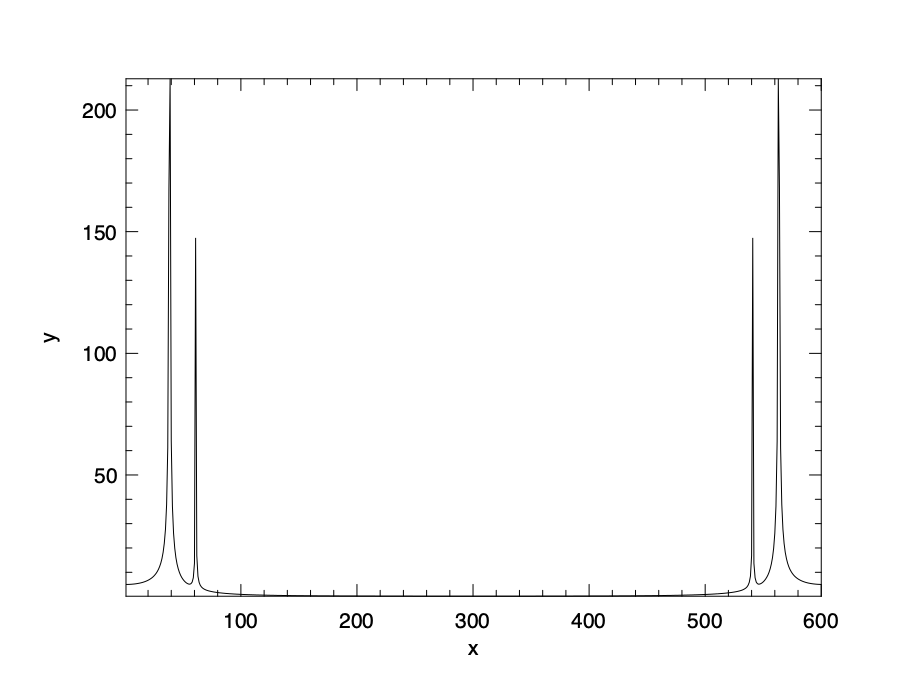
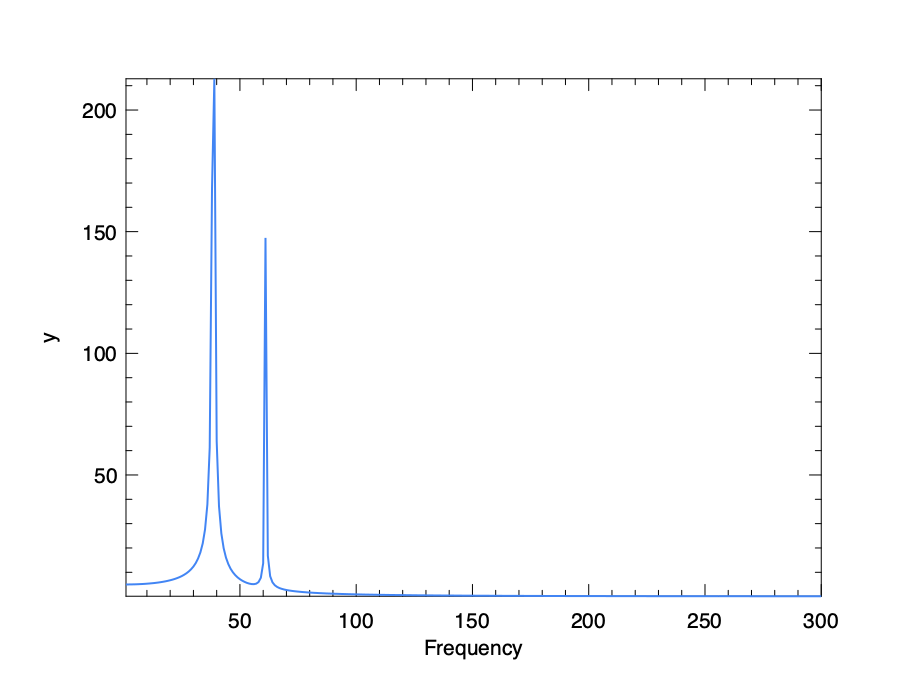
editing...

Changed region(s): [[0.2489, 0.1556, 0.9022, 0.9956], [0.1556, 0.1244, 0.2489, 0.8711]]

diff --git a/docs/signal.html b/docs/signal.html
@@ -25,12 +25,12 @@
 <p><span id="eq:signal:fft01"><span class="math display">\[ Y_k = \sum_{even j}\omega^{jk}y_j + \sum_{odd j}\omega^{jk}y_j\qquad(3)\]</span></span> <span class="math display">\[ = \sum_{j=0}^{n/2-1}\omega^{2jk}y_{2j} + \omega^k\sum_{j=0}^{n/2-1}\omega^{2jk}y_{2j+1}.\]</span></p>
 <p>The key to this step is the fact that <span class="math inline">\(\omega_{2n}^2 = \omega_n\)</span>. According to eq.&nbsp;3, one FFT can be reduced into two FFTs, each on only half of the original length, and then the second half is multiplied by a factor <span class="math inline">\(\omega^{k}\)</span> and added to the first half. The half signal can further be halved, so on and so forth. Therefore the computation can be reduced to a logarithm level in a recursive process. At the end of this recursion is the fact that a FFT on input that contains only one number returns just the number itself.</p>
 <p>To introduce Fourier Transform in detailed math and analysis of its properties is beyond the scope of this book, we encourage the readers to refer to other classic textbook on this topic <span data-cites="phillips2003signals" class="citation">(Phillips, Parr, and Riskin 2003)</span>. In this chapter, we focus on introducing how to use FFT in Owl and its applications with Owl code. Hopefully these materials are enough to interest you to investigate more.</p>
-<p>The implementation of the FFT module in Owl interfaces to the <a href="https://www.netlib.org/fftpack/">FFTPack</a> C implementation. Owl provides these basic FFT functions, listed in Tabel tbl.&nbsp;1</p>
+<p>The implementation of the FFT module in Owl interfaces to the <a href="https://www.netlib.org/fftpack/">FFTPack</a> C implementation. The core functions in a FFT module is the fft function and its reverse, corresponding to the two equations in eq.&nbsp;3. Owl provides these basic FFT functions, listed in Tabel tbl.&nbsp;1. The parameter <code>otyp</code> is used to specify the output type. It must be the consistent precision with input <code>x</code>. You can skip this parameter by using a sub-module with specific precision such as <code>Owl.Fft.S</code> or <code>Owl.Fft.D</code>. The <code>axis</code> parameter is the highest dimension if not specified. The parameter <code>n</code> specifies the size of output.</p>
 <div id="tbl:signal:fftfun">
 <table>
 <caption>Table 1: FFT functions in Owl</caption>
 <colgroup>
-<col style="width: 29%">
+<col style="width: 30%">
 <col style="width: 70%">
 </colgroup>
 <thead>
@@ -61,9 +61,9 @@
 </div>
 <section class="level3" id="examples">
 <h3>Examples</h3>
-<p>We then show how to use these functions with some simple example. More complex and interesting will follow in the next section.</p>
+<p>We then show how to use these functions with some simple examples. More complex and interesting ones will follow in the next section.</p>
 <p><strong>1-D Discrete Fourier transforms</strong></p>
-<p>Let start with the most basic <code>fft</code> and it reverse transform function <code>ifft</code>. First, we have a complex 1-D ndarray that contains 6 elements.</p>
+<p>Let start with the most basic <code>fft</code> and it reverse transform function <code>ifft</code>. First, we create a complex 1-D ndarray that contains 6 elements as input to the <code>fft</code> function.</p>
 <div class="highlight">
 <pre data-filter-output=">" data-prompt="#" class="command-line"><code class="language-ocaml">let a = [|1.;2.;1.;-1.;1.5;1.0|];;
 &gt;val a : float array = [|1.; 2.; 1.; -1.; 1.5; 1.|]
@@ -82,7 +82,7 @@ let b = Arr.of_array a [|6|] |&gt; Dense.Ndarray.Generic.cast_d2z;;
 &gt;R (5.5, 0i) (2.25, -0.433013i) (-2.75, -1.29904i) (1.5, 1.94289E-16i) (-2.75, 1.29904i) (2.25, 0.433013i)
 </code></pre>
 </div>
-<p>In the result returned by <code>fft</code>, the first half contain the positive-frequency terms, and the second half contains the negative-frequency terms, in order of decreasingly negative frequency. Typically, only the FFT corresponding to positive frequencies is plotted. (TODO: explain)</p>
+<p>The function <code>fft</code> takes a complex ndarray as input, and also returns a complex ndarray. In the result returned, the first half contains the positive-frequency terms, and the second half contains the negative-frequency terms, in order of decreasingly negative frequency. Typically, only the FFT corresponding to positive frequencies is plotted, so as to remove redundant frequencies, such as the <code>2.25</code> and <code>-2.75</code> here. (TODO: explain what are pos/neg frequencies.)</p>
 <div class="highlight">
 <pre data-filter-output=">" data-prompt="#" class="command-line"><code class="language-ocaml">let d = Owl_fft.D.ifft c;;
 &gt;val d : (Complex.t, complex64_elt) Owl_dense_ndarray_generic.t =
@@ -91,8 +91,8 @@ let b = Arr.of_array a [|6|] |&gt; Dense.Ndarray.Generic.cast_d2z;;
 &gt;R (1, 1.38778E-17i) (2, 1.15186E-15i) (1, -8.65641E-17i) (-1, -1.52188E-15i) (1.5, 1.69831E-16i) (1, 2.72882E-16i)
 </code></pre>
 </div>
-<p>TODO: explain <code>ifft</code>.</p>
-<p>The next example plots the FFT of the sum of two sine functions, showing the power of FFT to separate signals of different frequencies.</p>
+<p>The function <code>ifft</code> takes the frequency domain result <code>c</code> produced by <code>fft</code> and reconstruct the original time domain signal. Since we do not change the frequencies, the inverse FFT should produce quite similar result as the original input, as shown in this example.</p>
+<p>Perhaps only manipulating arrays still does not make very impressive example. The next example plots the FFT of the sum of two sine functions, showing the power of FFT to separate signals of different frequencies.</p>
 <div class="highlight">
 <pre data-filter-output=">" data-prompt="#" class="command-line"><code class="language-ocaml">module G = Dense.Ndarray.Generic;;
 &gt;module G = Owl.Dense.Ndarray.Generic
@@ -123,7 +123,7 @@ let x = Arr.linspace 0. (n *. t) (int_of_float n);;
 &gt;R  0 0.294317 0.475851 0.47504 0.292193 ... -0.292193 -0.47504 -0.475851 -0.294317 -2.15587E-14
 </code></pre>
 </div>
-<p>Here we create two signals: <span class="math inline">\(y_1(x)=\sin(100\pi~x)\)</span>, <span class="math inline">\(y_2(x) = \frac{1}{2}\sin(160\pi~x)\)</span>. We then mix them together.</p>
+<p>Here we create two sine signals of different frequencies: <span class="math inline">\(y_1(x)=\sin(100\pi~x)\)</span>, <span class="math inline">\(y_2(x) = \frac{1}{2}\sin(160\pi~x)\)</span>. We then mix them together.</p>
 <div class="highlight">
 <pre data-filter-output=">" data-prompt="#" class="command-line"><code class="language-ocaml">let y = Arr.(y1 + y2) |&gt; G.cast_d2z;;
 &gt;val y : (Complex.t, complex64_elt) G.t =
@@ -132,6 +132,7 @@ let x = Arr.linspace 0. (n *. t) (int_of_float n);;
 &gt;R (0, 0i) (0.677606, 0i) (1.18388, 0i) (1.39967, 0i) (1.29219, 0i) ... (0.707804, 0i) (0.449591, 0i) (0.232182, 0i) (0.0889723, 0i) (-8.82117E-15, 0i)
 </code></pre>
 </div>
+<p>Next, we apply FFT on the mixed signal:</p>
 <div class="highlight">
 <pre data-filter-output=">" data-prompt="#" class="command-line"><code class="language-ocaml">let yf = Owl_fft.D.fft y;;
 &gt;val yf : (Complex.t, complex64_elt) Owl_dense_ndarray_generic.t =
@@ -140,7 +141,7 @@ let x = Arr.linspace 0. (n *. t) (int_of_float n);;
 &gt;R (5.01874, 0i) (5.02225, 0.0182513i) (5.03281, 0.0366004i) (5.05051, 0.0551465i) (5.0755, 0.073992i) ... (5.108, -0.0932438i) (5.0755, -0.073992i) (5.05051, -0.0551465i) (5.03281, -0.0366004i) (5.02225, -0.0182513i)
 </code></pre>
 </div>
-<p>TODO: explain the meaning of result</p>
+<p>In the results, each tuple can be seen as a frequency vector in the complex space. We can plot the length of these vectors. As we have said, we use only the first half, or the positive frequencies, of array <code>yf</code>.</p>
 <div class="highlight">
 <pre data-filter-output=">" data-prompt="#" class="command-line"><code class="language-ocaml">let z = Dense.Ndarray.Z.(abs yf |&gt; re);;
 &gt;val z : Dense.Ndarray.Z.cast_arr =
@@ -149,12 +150,13 @@ let x = Arr.linspace 0. (n *. t) (int_of_float n);;
 &gt;R 5.01874 5.02228 5.03294 5.05081 5.07604 ... 5.10886 5.07604 5.05081 5.03294 5.02228
 </code></pre>
 </div>
-<p>TODO: what we have plotted</p>
 <div class="highlight">
 <pre data-filter-output=">" data-prompt="#" class="command-line"><code class="language-ocaml">let h = Plot.create "plot_001.png" in
 let xa = Arr.linspace 1. 600. 600 in
-Plot.plot ~h xa z;
-Plot.output h
+Plot.plot ~h ~spec:[ RGB (66,133,244); LineWidth 2.] xa z;
+Plot.set_xrange h 1. 300.;
+Plot.set_xlabel h "Frequency";
+Plot.output h;;
 ;;
 &gt;- : unit = ()
 </code></pre>
@@ -162,8 +164,7 @@ Plot.output h
 <figure>
 <img alt="" style="width:70.0%" class="align-center" title="plot_001" src="images/signal/plot_001.png"><figcaption>Using FFT to separate two sine signals from their mixed signal</figcaption>
 </figure>
-<p>TODO: explain why the other half.</p>
-<p>Next let’s see <code>rfft</code> and <code>irfft</code>. Function <code>rfft</code> calculates the FFT of a real signal input and generates the complex number FFT coefficients for half of the frequency domain range. The negative part is implied by the Hermitian symmetry of the FFT. Similarly, <code>irfft</code> performs the reverse step of <code>rfft</code>. First, let’s make the input even number.</p>
+<p>Next let’s see <code>rfft</code> and <code>irfft</code>. Function <code>rfft</code> calculates the FFT of a real signal input and generates the complex number FFT coefficients for half of the frequency domain range. The negative part is implied by the Hermitian symmetry of the FFT. Similarly, <code>irfft</code> performs the reverse step of <code>rfft</code>. They are different to <code>fft</code> and <code>ifft</code> only in the data type, and may make the code cleaner sometimes, as shown in the example below.</p>
 <div class="highlight">
 <pre data-filter-output=">" data-prompt="#" class="command-line"><code class="language-ocaml">let a = [|1.; 2.; 1.; -1.; 1.5; 1.0|];;
 &gt;val a : float array = [|1.; 2.; 1.; -1.; 1.5; 1.|]
@@ -190,8 +191,8 @@ let b = Arr.of_array a [|6|];;
 </code></pre>
 </div>
 <p><strong>N-D Discrete Fourier transforms</strong></p>
-<p>( TODO: This is not the real N-D FFT. Verify it with SciPy examples. IMPLEMENTATION required. TODO: explain briefly how 2D FFT can be built with 1D. Reference: Data-Driven Book, Chap2.6. )</p>
 <p>The owl FFT functions also applies to multi-dimensional arrays, such as matrix. Example: the fft matrix.</p>
+<p>( TODO: This is not the real N-D FFT. IMPLEMENTATION required. TODO: explain briefly how 2D FFT can be built with 1D. Reference: Data-Driven Book, Chap2.6. )</p>
 <div class="highlight">
 <pre data-filter-output=">" data-prompt="#" class="command-line"><code class="language-ocaml">let a = Dense.Matrix.Z.eye 5;;
 &gt;val a : Dense.Matrix.Z.mat =

diff --git a/book/signal/README.md b/book/signal/README.md
@@ -68,26 +68,31 @@ To introduce Fourier Transform in detailed math and analysis of its properties i
 In this chapter, we focus on introducing how to use FFT in Owl and its applications with Owl code. Hopefully these materials are enough to interest you to investigate more.
 
 The implementation of the FFT module in Owl interfaces to the [FFTPack](https://www.netlib.org/fftpack/) C implementation.
-Owl provides these basic FFT functions, listed in Tabel [@tbl:signal:fftfun]
+The core functions in a FFT module is the fft function and its reverse, corresponding to the two equations in [@eq:signal:fft01].
+Owl provides these basic FFT functions, listed in Tabel [@tbl:signal:fftfun].
+The parameter `otyp` is used to specify the output type. It must be the consistent
+precision with input `x`. You can skip this parameter by using a sub-module
+with specific precision such as ``Owl.Fft.S`` or ``Owl.Fft.D``.
+The `axis` parameter  is the highest dimension if not specified.
+The parameter `n` specifies the size of output.
 
 | Functions | Description
-| --------- |:---------------------|
+| --------- |:--------------------|
 | `fft ~axis x` | Compute the one-dimensional discrete Fourier Transform |
 | `ifft ~axis x` | Compute the one-dimensional inverse discrete Fourier Transform |
 | `rfft ~axis otyp x` | Compute the one-dimensional discrete Fourier Transform for real input |
 | `irfft ~axis ~n otyp x` | Compute the one-dimensional inverse discrete Fourier Transform for real input |
 : FFT functions in Owl {#tbl:signal:fftfun}
 
-
 ### Examples
 
-We then show how to use these functions with some simple example.
-More complex and interesting will follow in the next section.
+We then show how to use these functions with some simple examples.
+More complex and interesting ones will follow in the next section.
 
 **1-D Discrete Fourier transforms**
 
 Let start with the most basic `fft` and it reverse transform function `ifft`.
-First, we have a complex 1-D ndarray that contains 6 elements.
+First, we create a complex 1-D ndarray that contains 6 elements as input to the `fft` function.
 
 ```ocaml env=fft_env01
 # let a = [|1.;2.;1.;-1.;1.5;1.0|]
@@ -109,9 +114,10 @@ R (5.5, 0i) (2.25, -0.433013i) (-2.75, -1.29904i) (1.5, 1.94289E-16i) (-2.75, 1.
 
 ```
 
-In the result returned by `fft`, the first half contain the positive-frequency terms, and the second half contains the negative-frequency terms, in order of decreasingly negative frequency.
-Typically, only the FFT corresponding to positive frequencies is plotted.
-(TODO: explain)
+The function `fft` takes a complex ndarray as input, and also returns a complex ndarray.
+In the result returned, the first half contains the positive-frequency terms, and the second half contains the negative-frequency terms, in order of decreasingly negative frequency.
+Typically, only the FFT corresponding to positive frequencies is plotted, so as to remove redundant frequencies, such as the `2.25` and `-2.75` here.
+(TODO: explain what are pos/neg frequencies.)
 
 ```ocaml env=fft_env01
 # let d = Owl_fft.D.ifft c
@@ -121,8 +127,11 @@ val d : (Complex.t, complex64_elt) Owl_dense_ndarray_generic.t =
 R (1, 1.38778E-17i) (2, 1.15186E-15i) (1, -8.65641E-17i) (-1, -1.52188E-15i) (1.5, 1.69831E-16i) (1, 2.72882E-16i)
 
 ```
-TODO: explain `ifft`.
 
+The function `ifft` takes the frequency domain result `c` produced by `fft` and reconstruct the original time domain signal.
+Since we do not change the frequencies, the inverse FFT should produce quite similar result as the original input, as shown in this example.
+
+Perhaps only manipulating arrays still does not make very impressive example.
 The next example plots the FFT of the sum of two sine functions, showing the power of FFT to separate signals of different frequencies.
 
 ```ocaml env=fft_env02
@@ -159,7 +168,7 @@ R  0 0.294317 0.475851 0.47504 0.292193 ... -0.292193 -0.47504 -0.475851 -0.2943
 
 ```
 
-Here we create two signals: $y_1(x)=\sin(100\pi~x)$, $y_2(x) = \frac{1}{2}\sin(160\pi~x)$. We then mix them together.
+Here we create two sine signals of different frequencies: $y_1(x)=\sin(100\pi~x)$, $y_2(x) = \frac{1}{2}\sin(160\pi~x)$. We then mix them together.
 
 ```ocaml env=fft_env02
 # let y = Arr.(y1 + y2) |> G.cast_d2z
@@ -170,6 +179,8 @@ R (0, 0i) (0.677606, 0i) (1.18388, 0i) (1.39967, 0i) (1.29219, 0i) ... (0.707804
 
 ```
 
+Next, we apply FFT on the mixed signal:
+
 ```ocaml env=fft_env02
 # let yf = Owl_fft.D.fft y
 val yf : (Complex.t, complex64_elt) Owl_dense_ndarray_generic.t =
@@ -179,7 +190,9 @@ R (5.01874, 0i) (5.02225, 0.0182513i) (5.03281, 0.0366004i) (5.05051, 0.0551465i
 
 ```
 
-TODO: explain the meaning of result
+In the results, each tuple can be seen as a frequency vector in the complex space. 
+We can plot the length of these vectors. 
+As we have said, we use only the first half, or the positive frequencies, of array `yf`. 
 
 ```ocaml env=fft_env02
 # let z = Dense.Ndarray.Z.(abs yf |> re)
@@ -189,25 +202,24 @@ val z : Dense.Ndarray.Z.cast_arr =
 R 5.01874 5.02228 5.03294 5.05081 5.07604 ... 5.10886 5.07604 5.05081 5.03294 5.02228
 
 ```
-TODO: what we have plotted
 
 ```ocaml env=fft_env02
 # let h = Plot.create "plot_001.png" in
   let xa = Arr.linspace 1. 600. 600 in
-  Plot.plot ~h xa z;
-  Plot.output h
+  Plot.plot ~h ~spec:[ RGB (66,133,244); LineWidth 2.] xa z;
+  Plot.set_xrange h 1. 300.;
+  Plot.set_xlabel h "Frequency";
+  Plot.output h;;
 - : unit = ()
 ```
 
 ![Using FFT to separate two sine signals from their mixed signal](images/signal/plot_001.png "plot_001"){.align-center width=70%}
 
-TODO: explain why the other half.
-
-Next let's see `rfft` and `irfft`.
+Next let's see `rfft` and `irfft`. 
 Function `rfft` calculates the FFT of a real signal input and generates the complex number FFT coefficients for half of the frequency domain range.
 The negative part is implied by the Hermitian symmetry of the FFT.
 Similarly, `irfft` performs the reverse step of `rfft`.
-First, let's make the input even number.
+They are different to `fft` and `ifft` only in the data type, and may make the code cleaner sometimes, as shown in the example below.
 
 ```ocaml env=fft_env03
 # let a = [|1.; 2.; 1.; -1.; 1.5; 1.0|]
@@ -237,15 +249,14 @@ R  1  2  1 -1 1.5  1
 
 ```
 
-
 **N-D Discrete Fourier transforms**
 
-( TODO: This is not the real N-D FFT. Verify it with SciPy examples.
-IMPLEMENTATION required.
-TODO: explain briefly how 2D FFT can be built with 1D. Reference: Data-Driven Book, Chap2.6. )
 
 The owl FFT functions also applies to multi-dimensional arrays, such as matrix.
 Example: the fft matrix.
+
+( TODO: This is not the real N-D FFT. IMPLEMENTATION required.
+TODO: explain briefly how 2D FFT can be built with 1D. Reference: Data-Driven Book, Chap2.6. )
 
 ```ocaml env=fft_env05
 # let a = Dense.Matrix.Z.eye 5
